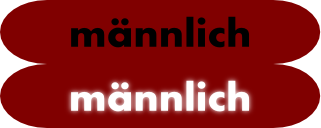
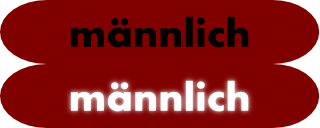
Statistik-Overlay fertig!

diff --git a/src/main/StatistikOverlay.java b/src/main/StatistikOverlay.java
@@ -4,6 +4,8 @@ import java.awt.Color;
 import java.awt.Font;
 import java.awt.Point;
 import java.awt.Toolkit;
+import java.awt.event.KeyEvent;
+import java.awt.event.KeyListener;
 import java.awt.event.MouseAdapter;
 import java.awt.event.MouseEvent;
 
@@ -16,11 +18,18 @@ import javax.swing.JLabel;
 import javax.swing.JLayeredPane;
 import javax.swing.JTextField;
 
-
 public class StatistikOverlay extends JLayeredPane {
-	public StatistikOverlay(GraphicManager graphicManager, String title) {
+	private char gender;
+	private int age_years;
+
+	GraphicManager graphicManager;
+
+	public StatistikOverlay(GraphicManager gm) {
 		super();
-		
+		this.graphicManager = gm;
+
+		String title = "Willkommen!";
+
 		double screen_width = Toolkit.getDefaultToolkit().getScreenSize()
 				.getWidth();
 		double screen_height = Toolkit.getDefaultToolkit().getScreenSize()
@@ -32,69 +41,161 @@ public class StatistikOverlay extends JLayeredPane {
 				graphicManager.startPopup.getImage()));
 		lab.setBounds(0, 0, cont_width, cont_height);
 
-		JLabel text = new JLabel();
-		text.setText(title);
-		text.setFont(new Font("Aharoni", 0, BufferedImageLoader.scaleToScreenY(48)));
-		text.setForeground(new Color(128, 0, 0));
-		text.setBounds(BufferedImageLoader.scaleToScreenX(35), BufferedImageLoader.scaleToScreenY(20), BufferedImageLoader.scaleToScreenX(300), BufferedImageLoader.scaleToScreenY(48));
+		JLabel an = new JLabel("Bitte mach ein paar statistische Angaben:");
+		an.setFont(new Font("Aharoni", 0, BufferedImageLoader
+				.scaleToScreenY(22)));
+		an.setForeground(new Color(128, 0, 0));
+		an.setBounds(30, 60, cont_width - 60, 100);
 
-		
+		JLabel text = new JLabel(title);
+		text.setFont(new Font("Aharoni", 0, BufferedImageLoader
+				.scaleToScreenY(48)));
+		text.setForeground(new Color(128, 0, 0));
+		text.setBounds(BufferedImageLoader.scaleToScreenX(35),
+				BufferedImageLoader.scaleToScreenY(20),
+				BufferedImageLoader.scaleToScreenX(300),
+				BufferedImageLoader.scaleToScreenY(48));
 
 		setBounds((int) ((screen_width - cont_width) / 2),
 				(int) ((screen_height - cont_height) / 2), cont_width,
 				cont_height);
-		
+
+		JLabel age_lab = new JLabel();
+		age_lab.setBounds(260, 170, 300, 100);
+		age_lab.setForeground(new Color(128, 0, 0));
+		age_lab.setFont(new Font("Aharoni", Font.BOLD, 90));
+		age_lab.setText("Jahre");
+
 		JTextField age = new JTextField();
-		age.setForeground(new Color(128,0,0));
+		age.setForeground(new Color(128, 0, 0));
 		age.setFont(new Font("Aharoni", Font.BOLD, 140));
-		age.setBounds(10, 100, 140, 100);
-		
-		JLabel ok = new JLabel(new ImageIcon());
-		ok.setBounds(10, 400, 200, 200);
-		
-		
-		add(ok);
+		age.setBounds(90, 160, 140, 100);
+		age.setText("");
+		age.addKeyListener(new KeyListener() {
+			@Override
+			public void keyTyped(KeyEvent e) {
+			}
+
+			@Override
+			public void keyReleased(KeyEvent e) {
+				JTextField f = ((JTextField) e.getSource());
+
+				// maximal 2 Zeichen
+				if (f.getText().length() > 2)
+					f.setText(f.getText().substring(0, 2));
+				try {
+					age_years = Integer.parseInt(f.getText());
+				} catch (NumberFormatException ex) {
+					f.setText("");
+				}
+			}
+
+			@Override
+			public void keyPressed(KeyEvent e) {
+			}
+		});
+
+		JLabel ok_m = new JLabel(new ImageIcon(
+				graphicManager.statMaennlich.getImage(0, 0)));
+		ok_m.addMouseListener(new MouseAdapter() {
+			@Override
+			public void mouseEntered(MouseEvent e) {
+				((JLabel) e.getSource()).setIcon(new ImageIcon(
+						graphicManager.statMaennlich.getImage(0, 1)));
+			}
+
+			@Override
+			public void mouseExited(MouseEvent e) {
+				((JLabel) e.getSource()).setIcon(new ImageIcon(
+						graphicManager.statMaennlich.getImage(0, 0)));
+			}
+
+			@Override
+			public void mouseClicked(MouseEvent e) {
+				((JComponent) e.getSource()).getParent().setVisible(false);
+				gender = 'm';
+			}
+		});
+		ok_m.setBounds(10, 280, 320, 128);
+
+		JLabel ok_w = new JLabel(new ImageIcon(
+				graphicManager.statWeiblich.getImage(0, 0)));
+		ok_w.addMouseListener(new MouseAdapter() {
+			@Override
+			public void mouseEntered(MouseEvent e) {
+				((JLabel) e.getSource()).setIcon(new ImageIcon(
+						graphicManager.statWeiblich.getImage(0, 1)));
+			}
+
+			@Override
+			public void mouseExited(MouseEvent e) {
+				((JLabel) e.getSource()).setIcon(new ImageIcon(
+						graphicManager.statWeiblich.getImage(0, 0)));
+			}
+
+			@Override
+			public void mouseClicked(MouseEvent e) {
+				((JComponent) e.getSource()).getParent().setVisible(false);
+				gender = 'w';
+			}
+		});
+		ok_w.setBounds(370, 280, 320, 128);
+
+		add(an);
+		add(age_lab);
+		add(ok_m);
+		add(ok_w);
 		add(age);
 		add(text);
 		add(lab);
 		setVisible(true);
 	}
+
+//	public static void main(String[] args) {
+//		GraphicManager graphicManager = new GraphicManager();
+//
+//		JFrame gameView = new JFrame();
+//
+//		gameView.setTitle("Felse deine Feier");
+//		gameView.setSize(
+//				(int) (Toolkit.getDefaultToolkit().getScreenSize().getWidth()),
+//				(int) (Toolkit.getDefaultToolkit().getScreenSize().getHeight()));
+//		gameView.setUndecorated(true);
+//		gameView.setAlwaysOnTop(true);
+//		gameView.setResizable(false);
+//		gameView.setDefaultCloseOperation(JFrame.EXIT_ON_CLOSE);
+//		gameView.setVisible(true);
+//		gameView.setCursor(Toolkit.getDefaultToolkit().createCustomCursor(
+//				graphicManager.mouse.getImage(),
+//				new Point(gameView.getX(), gameView.getY()), "mouse02"));
+//
+//		StatistikOverlay c = new StatistikOverlay(graphicManager);
+//
+//		GroupLayout layout = new GroupLayout(gameView.getContentPane());
+//		gameView.getContentPane().setLayout(layout);
+//		layout.setHorizontalGroup(layout.createParallelGroup(
+//				javax.swing.GroupLayout.Alignment.LEADING).addComponent(c,
+//				javax.swing.GroupLayout.DEFAULT_SIZE,
+//				(int) (Toolkit.getDefaultToolkit().getScreenSize().getWidth()),
+//				Short.MAX_VALUE));
+//		layout.setVerticalGroup(layout.createParallelGroup(
+//				javax.swing.GroupLayout.Alignment.LEADING)
+//				.addComponent(
+//						c,
+//						javax.swing.GroupLayout.DEFAULT_SIZE,
+//						(int) (Toolkit.getDefaultToolkit().getScreenSize()
+//								.getHeight()), Short.MAX_VALUE));
+//		gameView.pack();
+//		gameView.setVisible(true);
+//		
+//		System.out.println(c.getAge()+""+ c.getGender());
+//	}
 	
-	public static void main(String[] args) {
-	GraphicManager graphicManager = new GraphicManager();
-
-	JFrame gameView = new JFrame();
-
-	gameView.setTitle("Felse deine Feier");
-	gameView.setSize(
-			(int) (Toolkit.getDefaultToolkit().getScreenSize().getWidth()),
-			(int) (Toolkit.getDefaultToolkit().getScreenSize().getHeight()));
-	gameView.setUndecorated(true);
-	gameView.setAlwaysOnTop(true);
-	gameView.setResizable(false);
-	gameView.setDefaultCloseOperation(JFrame.EXIT_ON_CLOSE);
-	gameView.setVisible(true);
-	gameView.setCursor(Toolkit.getDefaultToolkit().createCustomCursor(
-			graphicManager.mouse.getImage(),
-			new Point(gameView.getX(), gameView.getY()), "mouse02"));
-
-	JComponent c = new StatistikOverlay(graphicManager, "as");
-
-	GroupLayout layout = new GroupLayout(gameView.getContentPane());
-	gameView.getContentPane().setLayout(layout);
-	layout.setHorizontalGroup(layout.createParallelGroup(
-			javax.swing.GroupLayout.Alignment.LEADING).addComponent(c,
-			javax.swing.GroupLayout.DEFAULT_SIZE,
-			(int) (Toolkit.getDefaultToolkit().getScreenSize().getWidth()),
-			Short.MAX_VALUE));
-	layout.setVerticalGroup(layout.createParallelGroup(
-			javax.swing.GroupLayout.Alignment.LEADING)
-			.addComponent(
-					c,
-					javax.swing.GroupLayout.DEFAULT_SIZE,
-					(int) (Toolkit.getDefaultToolkit().getScreenSize()
-							.getHeight()), Short.MAX_VALUE));
-	gameView.pack();
-	gameView.setVisible(true);
-}
+	public int getAge() {
+		return age_years;
+	}
+	
+	public int getGender() {
+		return gender;
+	}
 }

diff --git a/src/main/GraphicManager.java b/src/main/GraphicManager.java
@@ -74,6 +74,10 @@ public class GraphicManager {
   
   public BufferedImageLoader gameOverImage;
   
+  
+  public BufferedImageLoader statMaennlich;
+  public BufferedImageLoader statWeiblich;
+  
   public GraphicManager() {
     
 	//Mit diesem Befehl wird jede im Folgenden geladene Grafik
@@ -151,5 +155,8 @@ public class GraphicManager {
     
     dancefloorOverlay = new BufferedImageLoader("Data/Graphics/", "daceoverlay_01.png");
     
+    
+    statMaennlich = new BufferedImageLoader("Data/Graphics/", "maennlich01.png", 1, 2);
+    statWeiblich = new BufferedImageLoader("Data/Graphics/", "weiblich01.png", 1, 2);
   }
 }
